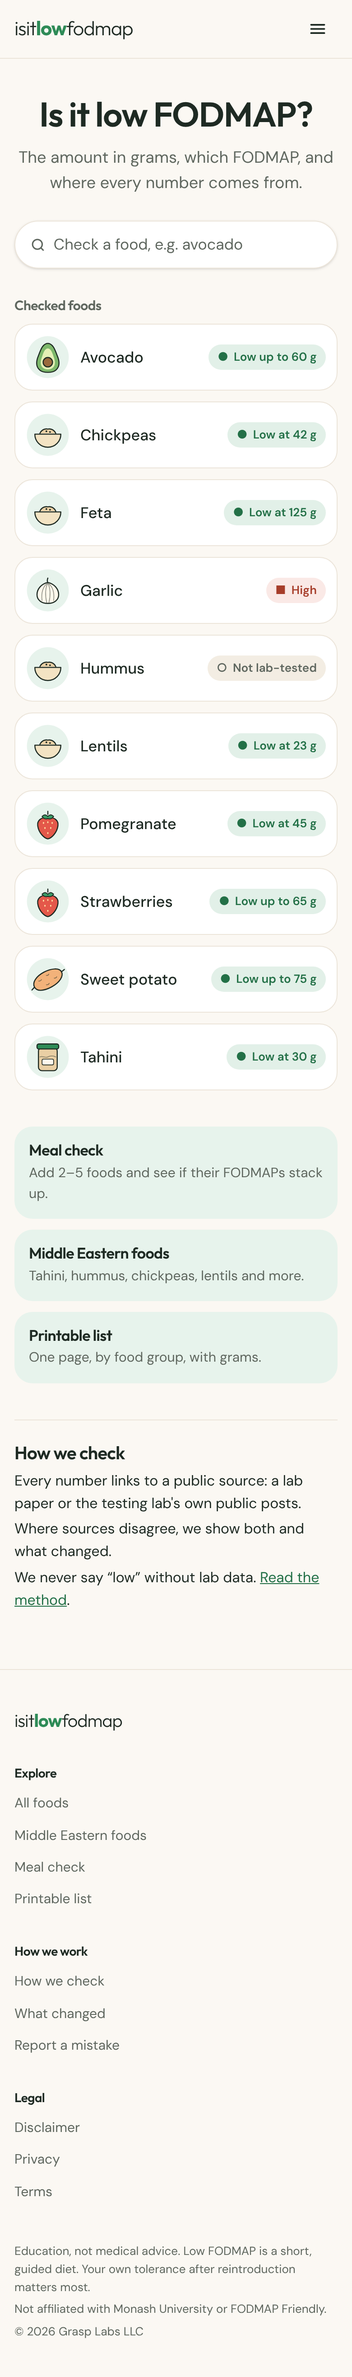
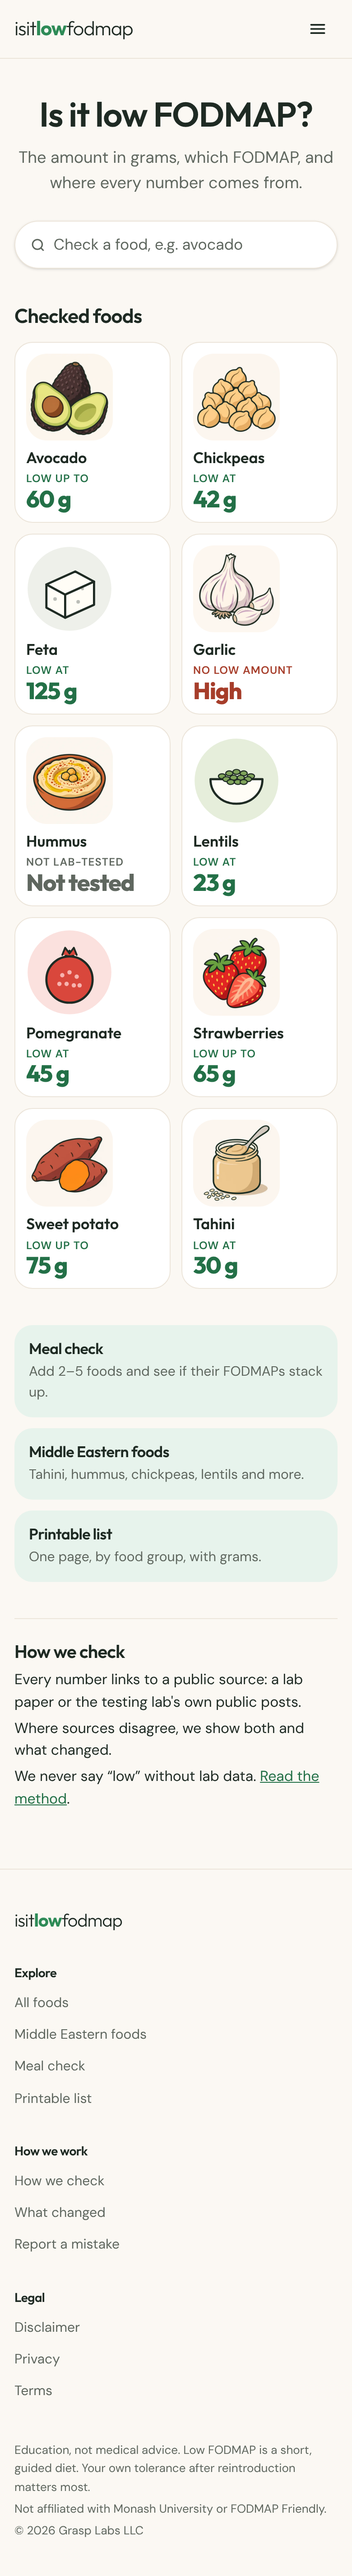
Fix 'looks mid': big-answer hero, segmented labelled scale, illustrated food set, tile grids
Claude-Session: https://claude.ai/code/session_01Q8GFjWSXATGhzzXd6CdBtz

diff --git a/src/components/FoodArt.tsx b/src/components/FoodArt.tsx
@@ -1,3 +1,8 @@
+import Image from "next/image";
+
+// Illustrated set (generated in one style, 480 px WebP in public/art). Others fall back to the simple drawings below.
+const RASTER = new Set(["garlic", "chickpeas", "sweet-potato", "avocado", "strawberries", "tahini", "hummus"]);
+
 // Original flat food drawings (no stock photos, DECISIONS §0). One simple shape set, ink outline + soft fill.
 const S = { stroke: "var(--ink)", strokeWidth: 3, strokeLinejoin: "round" as const, strokeLinecap: "round" as const };
 
@@ -7,14 +12,25 @@ const ART: Record<string, React.ReactNode> = {
   avocado: (<g><path d="M60 22c-14 0-20 18-26 34-6 14-8 30 4 40 6 5 14 6 22 6s16-1 22-6c12-10 10-26 4-40-6-16-12-34-26-34z" fill="#7DB86B" {...S} /><path d="M60 36c-9 0-13 14-17 26-4 11-4 22 4 28 4 3 8 4 13 4s9-1 13-4c8-6 8-17 4-28-4-12-8-26-17-26z" fill="#E4F0B5" stroke="none" /><circle cx="60" cy="74" r="13" fill="#9A6A3D" {...S} /></g>),
   tahini: (<g><rect x="34" y="34" width="52" height="64" rx="10" fill="#E9CFA4" {...S} /><rect x="30" y="24" width="60" height="14" rx="5" fill="#2E8B57" {...S} /><path d="M38 60c8-4 14 4 22 0s14-4 22 0" {...S} strokeWidth={2} fill="none" opacity=".5" /><rect x="44" y="66" width="32" height="16" rx="4" fill="#FFF8EC" {...S} strokeWidth={2} /></g>),
   strawberries: (<g><path d="M60 42c-20 0-30 10-28 24 3 20 18 34 28 36 10-2 25-16 28-36 2-14-8-24-28-24z" fill="#E4584A" {...S} /><path d="M44 40c6-6 10-6 16 0 6-6 10-6 16 0-4 6-10 8-16 6-6 2-12 0-16-6z" fill="#3A9B66" {...S} strokeWidth={2.5} /><path d="M60 34v-8" {...S} />{[[48,58],[60,56],[72,58],[52,72],[68,72],[60,86]].map(([x,y]) => (<ellipse key={`${x}${y}`} cx={x} cy={y} rx="1.8" ry="2.6" fill="#FFE7A8" />))}</g>),
+  chickpeas: (<g>{[[44,52],[64,46],[80,58],[50,74],[70,70],[58,90],[38,90],[82,82]].map(([x,y]) => (<g key={`${x}${y}`}><circle cx={x} cy={y} r="11" fill="#EBC98E" {...S} strokeWidth={2.5} /><path d={`M${x - 4} ${y - 5}c3 3 3 7 0 10`} {...S} strokeWidth={1.8} fill="none" opacity=".45" /></g>))}</g>),
+  feta: (<g><path d="M28 54l40-18 26 14v32L54 100 28 86z" fill="#FFFDF6" {...S} /><path d="M28 54l26 14 40-18M54 68v32" {...S} fill="none" /><circle cx="40" cy="74" r="2.5" fill="var(--ink)" opacity=".3" /><circle cx="72" cy="78" r="2.5" fill="var(--ink)" opacity=".3" /><circle cx="78" cy="60" r="2" fill="var(--ink)" opacity=".3" /></g>),
+  hummus: (<g><ellipse cx="60" cy="70" rx="40" ry="24" fill="#FFFDF6" {...S} /><ellipse cx="60" cy="66" rx="30" ry="15" fill="#EBCB95" {...S} strokeWidth={2.5} /><path d="M40 66c8-8 32-8 40 0" {...S} strokeWidth={2} fill="none" opacity=".5" /><circle cx="60" cy="64" r="6" fill="#C9A227" stroke="none" opacity=".8" />{[[52,60],[68,62],[60,70]].map(([x,y]) => (<circle key={`${x}${y}`} cx={x} cy={y} r="3" fill="#EBC98E" {...S} strokeWidth={1.5} />))}<circle cx="74" cy="70" r="1.8" fill="#C0392B" /><circle cx="46" cy="70" r="1.8" fill="#C0392B" /></g>),
+  lentils: (<g><path d="M24 58h72c0 20-16 34-36 34S24 78 24 58z" fill="#FFFDF6" {...S} />{[[40,54],[50,50],[60,48],[70,50],[80,54],[46,58],[56,56],[66,56],[76,58],[52,62],[62,62],[70,62]].map(([x,y]) => (<ellipse key={`${x}${y}`} cx={x} cy={y} rx="5" ry="3.4" fill="#7FA35A" {...S} strokeWidth={1.5} />))}</g>),
+  pomegranate: (<g><path d="M60 30l-6 8h12z" fill="#C0392B" {...S} strokeWidth={2.5} /><circle cx="60" cy="70" r="32" fill="#D9473C" {...S} /><path d="M50 36l4-10 6 8 6-8 4 10" fill="#D9473C" {...S} strokeWidth={2.5} />{[[50,64],[60,60],[70,66],[56,76],[66,78],[46,76],[74,78]].map(([x,y]) => (<circle key={`${x}${y}`} cx={x} cy={y} r="3" fill="#F7B3AE" stroke="none" />))}</g>),
   bowl: (<g><path d="M24 58h72c0 20-16 36-36 36S24 78 24 58z" fill="#F3E3C3" {...S} /><path d="M38 56c4-10 14-14 22-12 8-2 18 2 22 12" {...S} fill="#E9CFA4" /><circle cx="56" cy="50" r="2.4" fill="var(--ink)" /><circle cx="66" cy="52" r="2.4" fill="var(--ink)" /></g>),
   leaf: (<g><path d="M30 88C30 52 52 30 92 28c0 40-22 62-58 62" fill="#7DB86B" {...S} /><path d="M34 86c14-18 30-34 50-48" {...S} strokeWidth={2} fill="none" /></g>),
 };
 
-export function FoodArt({ name, size = 84, label = "" }: { name: string; size?: number; label?: string }) {
+const TINT: Record<string, string> = { garlic: "#F1ECDF", "sweet-potato": "#FBE6D2", avocado: "#E4F0D6", tahini: "#F6E7CC", strawberries: "#FBE1DE", chickpeas: "#F7EBD3", feta: "#EEF0EA", hummus: "#F6E9D2", lentils: "#E6EEDB", pomegranate: "#FBE1DE" };
+export const artTint = (name: string) => TINT[name] ?? "var(--soft)";
+
+export function FoodArt({ name, size = 84, label = "", priority = false }: { name: string; size?: number; label?: string; priority?: boolean }) {
+  if (RASTER.has(name)) {
+    return <Image src={`/art/${name}.webp`} width={size} height={size} alt={label} priority={priority} className="shrink-0 rounded-[24%] bg-[#FBF8F3]" />;
+  }
   return (
     <svg viewBox="0 0 120 120" width={size} height={size} role={label ? "img" : undefined} aria-label={label || undefined} aria-hidden={label ? undefined : true}>
-      <circle cx="60" cy="60" r="58" fill="var(--soft)" />
+      <circle cx="60" cy="60" r="58" fill={artTint(name)} />
       {ART[name] ?? ART.bowl}
     </svg>
   );

diff --git a/src/components/PortionSlider.tsx b/src/components/PortionSlider.tsx
@@ -6,7 +6,10 @@ import { bands, zoneFor } from "@/lib/fodmap";
 import { ZONE_STYLE } from "./ZoneChip";
 import { messages as m } from "@/lib/i18n";
 
-// The signature diagram. Server-rendered with the start amount, so the HTML already carries the answer.
+const SHORT = { low: "Low", moderate: "Mod", high: "High", untested: "Untested" } as const;
+
+// The signature scale (DECISIONS 2026-11-19, option A): thick segments with labels, based on BitePal/Oura.
+// Server-rendered at the start amount, so the HTML already carries the answer.
 export function PortionSlider({ serving, start }: { serving: Serving; start?: number }) {
   const id = useId();
   const first = start ?? serving.lowMaxG ?? serving.highFromG ?? Math.round(serving.scaleMaxG / 2);
@@ -15,27 +18,34 @@ export function PortionSlider({ serving, start }: { serving: Serving; start?: nu
   const pct = (g / serving.scaleMaxG) * 100;
   const step = serving.scaleMaxG <= 20 ? 0.5 : serving.scaleMaxG <= 60 ? 1 : 5;
   const groups = serving.groups.map((x) => GROUP_LABEL[x]).join(" + ");
+  const segs = bands(serving);
+  const ticks = [0, serving.lowMaxG ?? serving.highFromG, serving.scaleMaxG]
+    .filter((t): t is number => t !== null && t <= serving.scaleMaxG)
+    .filter((t, i, a) => a.indexOf(t) === i)
+    .filter((t, i, a) => i === 0 || (t - a[i - 1]) / serving.scaleMaxG >= 0.09 || t === serving.scaleMaxG);
   return (
     <div>
       <div className="flex items-baseline justify-between gap-3">
-        <label htmlFor={id} className="text-sm font-semibold">{m.food.slider}: <span className="tabular-nums">{g} g</span></label>
-        <span role="status" aria-live="polite" className="text-sm">
-          <span aria-hidden className="mr-1">{ZONE_STYLE[z].shape}</span>
-          <b>{m.zone[z]}</b>{z !== "untested" && z !== "low" && groups ? ` in ${groups.toLowerCase()}` : ""}
+        <label htmlFor={id} className="text-[15px] font-semibold">{m.food.slider}: <span className="tabular-nums">{g} g</span></label>
+        <span role="status" aria-live="polite" className={`rounded-full px-2.5 py-0.5 text-[14px] font-semibold ${ZONE_STYLE[z].cls}`}>
+          <span aria-hidden className="mr-1">{ZONE_STYLE[z].shape}</span>{m.zone[z]}{z !== "untested" && z !== "low" && groups ? ` in ${groups.toLowerCase()}` : ""}
         </span>
       </div>
-      <div className="relative mt-3 h-4">
-        <div className="absolute inset-0 flex overflow-hidden rounded-full" aria-hidden>
-          {bands(serving).map((b) => (<div key={b.zone + b.from} className={ZONE_STYLE[b.zone].bar} style={{ width: `${(b.to - b.from) * 100}%` }} />))}
+      <div className="relative mt-4 h-5">
+        <div className="absolute inset-0 flex gap-1" aria-hidden>
+          {segs.map((b, i) => (<div key={b.zone + b.from} className={`${ZONE_STYLE[b.zone].bar} ${i === 0 ? "rounded-l-full" : "rounded-l-[4px]"} ${i === segs.length - 1 ? "rounded-r-full" : "rounded-r-[4px]"}`} style={{ flexGrow: b.to - b.from, flexBasis: 0 }} />))}
         </div>
-        <div aria-hidden className="pointer-events-none absolute top-1/2 h-7 w-7 -translate-x-1/2 -translate-y-1/2 rounded-full border-[3px] border-ink bg-card shadow" style={{ left: `${pct}%` }} />
+        <div aria-hidden className="pointer-events-none absolute top-1/2 h-8 w-8 -translate-x-1/2 -translate-y-1/2 rounded-full border-[3px] border-ink bg-card shadow-md" style={{ left: `${pct}%` }} />
         <input id={id} type="range" min={0} max={serving.scaleMaxG} step={step} value={g} onChange={(e) => setG(Number(e.target.value))}
           aria-valuetext={`${g} grams: ${m.zone[z]}`} className="absolute inset-0 h-full w-full cursor-pointer opacity-0" />
       </div>
-      <div className="mt-2 flex justify-between text-[12.5px] text-muted tabular-nums" aria-hidden>
-        <span>0 g</span>{serving.lowMaxG !== null && <span>{serving.lowMaxG} g</span>}<span>{serving.scaleMaxG} g</span>
+      <div className="mt-2 flex gap-1 text-[12.5px] font-semibold" aria-hidden>
+        {segs.map((b) => (<span key={b.zone + b.from} className={`truncate ${b.zone === "low" ? "text-brand-ink" : b.zone === "moderate" ? "text-mid-ink" : b.zone === "high" ? "text-high-ink" : "text-muted"}`} style={{ flexGrow: b.to - b.from, flexBasis: 0 }}>
+          {b.to - b.from >= (b.zone === "untested" ? 0.24 : 0.12) ? `${ZONE_STYLE[b.zone].shape} ${SHORT[b.zone]}` : ""}</span>))}
       </div>
-      <p className="mt-1 text-[12.5px] text-muted">{m.food.sliderHelp}</p>
+      <div className="relative mt-1 h-4 text-[12px] text-muted tabular-nums" aria-hidden>
+        {ticks.map((t, i) => (<span key={t} className="absolute whitespace-nowrap" style={{ left: `${(t / serving.scaleMaxG) * 100}%`, transform: i === 0 ? "none" : i === ticks.length - 1 ? "translateX(-100%)" : "translateX(-50%)" }}>{t} g</span>))}
+      </div>
     </div>
   );
 }

diff --git a/src/app/food/[slug]/page.tsx b/src/app/food/[slug]/page.tsx
@@ -5,7 +5,7 @@ import { citedSources, foods, getFood, related, sameGroup } from "@/data";
 import { GROUP_LABEL } from "@/data/schema";
 import { FoodArt } from "@/components/FoodArt";
 import { PortionSlider } from "@/components/PortionSlider";
-import { ZoneChip } from "@/components/ZoneChip";
+import { BigAnswer } from "@/components/BigAnswer";
 import { DoctorBox } from "@/components/DoctorBox";
 import { Row } from "@/components/Row";
 import { fmt, messages as m } from "@/lib/i18n";
@@ -28,7 +28,6 @@ export async function generateMetadata({ params }: { params: Promise<{ slug: str
 export default async function FoodPage({ params }: { params: Promise<{ slug: string }> }) {
   const food = getFood((await params).slug);
   if (!food) notFound();
-  const h = headline(food);
   const main = food.servings[0];
   const cited = citedSources(food);
   const n = (id: string) => cited.findIndex((s) => s.id === id) + 1;
@@ -44,20 +43,21 @@ export default async function FoodPage({ params }: { params: Promise<{ slug: str
         { "@type": "Article", headline: title, description: food.answer, datePublished: food.published, dateModified: food.checked, author: { "@id": ORG_ID }, publisher: { "@id": ORG_ID }, mainEntityOfPage: abs(`/food/${food.slug}`),
           about: { "@type": "Thing", name: food.name }, citation: cited.map((s) => ({ "@type": "CreativeWork", name: s.title, url: s.url, publisher: s.publisher })) },
       ]} />
-      <nav aria-label="Breadcrumb" className="text-[13px] text-muted"><Link href="/foods" className="hover:text-ink">Foods</Link> › {CATEGORY_LABEL[food.category]}</nav>
-
-      <div className="mt-3 flex items-center gap-4">
-        <FoodArt name={food.illustration} size={88} />
-        <h1 className="text-[32px] font-semibold sm:text-[40px]">{title}</h1>
+      <div className="flex items-start justify-between gap-4">
+        <div>
+          <nav aria-label="Breadcrumb" className="text-[13px] text-muted"><Link href="/foods" className="hover:text-ink">Foods</Link> › {CATEGORY_LABEL[food.category]}</nav>
+          <h1 className="mt-2 text-[30px] font-semibold sm:text-[42px]">{title}</h1>
+        </div>
+        <FoodArt name={food.illustration} size={104} priority />
       </div>
 
-      <section aria-label="Answer" className="mt-5 rounded-[var(--radius-card)] border border-line bg-card p-5">
-        <div className="flex flex-wrap items-center gap-2"><ZoneChip zone={h.zone} label={h.chip} /><span className="text-sm text-muted">{main.form}</span></div>
-        <p className="mt-3 text-[18px] leading-relaxed">{food.answer}{cite(main.sourceIds)}</p>
+      <section aria-label="Answer" className="mt-5 rounded-[var(--radius-card)] border border-line bg-card p-5 sm:p-6">
+        <BigAnswer food={food} />
+        <p className="mt-3 text-[17px] leading-relaxed">{food.answer}{cite(main.sourceIds)}</p>
         <div className="mt-5"><PortionSlider serving={main} /></div>
-        <ul className="mt-4 flex flex-wrap gap-2 text-[13px]">
+        <ul className="mt-5 flex flex-wrap gap-2 text-[13px]">
           {food.groups.map((g) => (<li key={g} className="rounded-full bg-chip px-2.5 py-1">{GROUP_LABEL[g]}</li>))}
-          <li className="rounded-full bg-chip px-2.5 py-1">{m.tier[food.tier]}</li>
+          <li className="rounded-full bg-chip px-2.5 py-1">{m.tier[food.tier]} · {main.form}</li>
           <li className="rounded-full bg-chip px-2.5 py-1">{fmt(m.food.checked, { date: fmtDate(food.checked) })}</li>
         </ul>
       </section>

diff --git a/src/app/page.tsx b/src/app/page.tsx
@@ -1,27 +1,23 @@
 import Link from "next/link";
 import { foods } from "@/data";
 import { FoodSearch } from "@/components/FoodSearch";
-import { FoodArt } from "@/components/FoodArt";
-import { ZoneChip } from "@/components/ZoneChip";
+import { FoodTile } from "@/components/FoodTile";
 import { checkerIndex } from "@/lib/index-data";
-import { headline } from "@/lib/verdict";
 import { JsonLd } from "@/lib/jsonld";
 
 export default function Home() {
   const items = checkerIndex();
   return (
-    <div className="mx-auto max-w-3xl px-4 pt-10">
+    <div className="mx-auto max-w-5xl px-4 pt-10">
       <JsonLd graph={[]} />
       <h1 className="text-center text-[38px] font-semibold sm:text-[52px]">Is it low FODMAP?</h1>
       <p className="mx-auto mt-3 max-w-xl text-center text-[18px] text-muted">The amount in grams, which FODMAP, and where every number comes from.</p>
-      <div className="mt-7"><FoodSearch items={items} /></div>
+      <div className="mx-auto mt-7 max-w-2xl"><FoodSearch items={items} /></div>
 
-      <section className="mt-8" aria-labelledby="popular">
-        <h2 id="popular" className="text-[15px] font-semibold text-muted">Checked foods</h2>
-        <ul className="mt-3 grid grid-cols-1 gap-3 sm:grid-cols-2">
-          {foods.map((f) => { const h = headline(f); return (
-            <li key={f.slug}><Link href={`/food/${f.slug}`} className="flex items-center gap-3 rounded-[var(--radius-card)] border border-line bg-card p-3 hover:border-brand">
-              <FoodArt name={f.illustration} size={48} /><span className="flex-1 font-medium">{f.name[0].toUpperCase() + f.name.slice(1)}</span><ZoneChip zone={h.zone} label={h.chip} /></Link></li>); })}
+      <section className="mt-10" aria-labelledby="popular">
+        <h2 id="popular" className="text-[22px] font-semibold">Checked foods</h2>
+        <ul className="mt-4 grid grid-cols-2 gap-3 sm:grid-cols-3 lg:grid-cols-5">
+          {foods.map((f) => (<li key={f.slug}><FoodTile food={f} /></li>))}
         </ul>
       </section>
 
@@ -36,7 +32,7 @@ export default function Home() {
         ))}
       </section>
 
-      <section className="mt-10 border-t border-line pt-6" aria-labelledby="how">
+      <section className="mx-auto mt-10 max-w-3xl border-t border-line pt-6" aria-labelledby="how">
         <h2 id="how" className="text-[20px] font-semibold">How we check</h2>
         <ul className="mt-2 space-y-1 text-[16px]">
           <li>Every number links to a public source: a lab paper or the testing lab&apos;s own public posts.</li>

diff --git a/src/app/region/[slug]/page.tsx b/src/app/region/[slug]/page.tsx
@@ -1,12 +1,9 @@
 import type { Metadata } from "next";
-import Link from "next/link";
 import { notFound } from "next/navigation";
 import { foods } from "@/data";
 import { REGIONS, getRegion } from "@/data/regions";
-import { FoodArt } from "@/components/FoodArt";
-import { ZoneChip } from "@/components/ZoneChip";
+import { FoodTile } from "@/components/FoodTile";
 import { Row } from "@/components/Row";
-import { headline, subline } from "@/lib/verdict";
 import { JsonLd, breadcrumbs } from "@/lib/jsonld";
 
 export const dynamicParams = false;
@@ -22,14 +19,12 @@ export default async function RegionPage({ params }: { params: Promise<{ slug: s
   if (!r) notFound();
   const list = foods.filter((f) => f.regions.includes(r.slug as never));
   return (
-    <div className="mx-auto max-w-3xl px-4 pt-8">
+    <div className="mx-auto max-w-4xl px-4 pt-8">
       <JsonLd graph={[breadcrumbs([{ name: "Regions", path: `/region/${r.slug}` }, { name: r.name, path: `/region/${r.slug}` }])]} />
       <h1 className="text-[34px] font-semibold">{r.title}</h1>
       <p className="mt-3 text-[17px] text-muted">{r.intro}</p>
-      <ul className="mt-6 grid gap-3 sm:grid-cols-2">
-        {list.map((f) => { const h = headline(f); return (
-          <li key={f.slug}><Link href={`/food/${f.slug}`} className="flex items-center gap-3 rounded-[var(--radius-card)] border border-line bg-card p-3 hover:border-brand">
-            <FoodArt name={f.illustration} size={52} /><span className="flex-1"><span className="block font-medium">{f.name[0].toUpperCase() + f.name.slice(1)}</span><span className="text-[13px] text-muted">{subline(f)}</span></span><ZoneChip zone={h.zone} label={h.chip} /></Link></li>); })}
+      <ul className="mt-6 grid grid-cols-2 gap-3 sm:grid-cols-3">
+        {list.map((f) => (<li key={f.slug}><FoodTile food={f} /></li>))}
       </ul>
       <div className="mt-8">
         <Row title="Eating out: what to ask">

diff --git a/src/components/FoodTile.tsx b/src/components/FoodTile.tsx
@@ -1,0 +1,21 @@
+import Link from "next/link";
+import type { Food } from "@/data/schema";
+import { verdict } from "@/lib/fodmap";
+import { FoodArt } from "./FoodArt";
+
+// One food as a tile: picture, name and the answer in grams (same system as the food page hero).
+export function FoodTile({ food }: { food: Food }) {
+  const s = food.servings[0];
+  const v = verdict(food);
+  const big = v === "depends" || v === "low" ? `${s.lowMaxG} g` : v === "high" ? "High" : "Not tested";
+  const small = v === "depends" ? "low up to" : v === "low" ? "low at" : v === "high" ? "no low amount" : "not lab-tested";
+  const color = v === "high" ? "text-high-ink" : v === "estimate" || v === "unknown" ? "text-muted" : "text-brand-ink";
+  return (
+    <Link href={`/food/${food.slug}`} className="group flex flex-col rounded-[var(--radius-card)] border border-line bg-card p-3 transition-colors hover:border-brand sm:p-4">
+      <FoodArt name={food.illustration} size={96} label="" />
+      <span className="mt-2 font-display text-[17px] font-semibold leading-tight">{food.name[0].toUpperCase() + food.name.slice(1)}</span>
+      <span className={`mt-1 text-[12px] font-semibold uppercase tracking-[0.05em] ${color}`}>{small}</span>
+      <span className={`font-display text-[26px] font-extrabold leading-none tracking-[-0.03em] ${color}`}>{big}</span>
+    </Link>
+  );
+}

diff --git a/src/components/BigAnswer.tsx b/src/components/BigAnswer.tsx
@@ -1,0 +1,24 @@
+import type { Food } from "@/data/schema";
+import { verdict } from "@/lib/fodmap";
+
+// The hero answer (option A, based on BitePal/Oura): the grams are the biggest thing on the page.
+export function BigAnswer({ food }: { food: Food }) {
+  const s = food.servings[0];
+  const v = verdict(food);
+  const label =
+    v === "depends" ? { t: "● Low up to", c: "text-brand-ink" } :
+    v === "low" ? { t: "● Low at", c: "text-brand-ink" } :
+    v === "high" ? { t: "■ No low amount found", c: "text-high-ink" } :
+    { t: "○ Not lab-tested", c: "text-muted" };
+  const big = v === "depends" || v === "low" ? `${s.lowMaxG} g` : v === "high" ? "High" : "Not tested";
+  const side = v === "depends" || v === "low" ? s.household : v === "high" && s.highFromG ? `even at ${s.highFromG} g` : undefined;
+  return (
+    <div>
+      <p className={`text-[13px] font-bold uppercase tracking-[0.06em] ${label.c}`}>{label.t}</p>
+      <p className="mt-1 flex flex-wrap items-baseline gap-x-3">
+        <span className={`font-display font-extrabold leading-none tracking-[-0.04em] ${big.length > 6 ? "text-[44px]" : "text-[64px]"}`}>{big}</span>
+        {side && <span className="text-[17px] text-muted">{side}</span>}
+      </p>
+    </div>
+  );
+}

diff --git a/src/data/foods/chickpeas.ts b/src/data/foods/chickpeas.ts
@@ -1,7 +1,7 @@
 import type { FoodInput } from "../schema";
 
 const food: FoodInput = {
-  slug: "chickpeas", name: "chickpeas", aliases: ["chickpea", "garbanzo beans", "chick peas", "canned chickpeas"], category: "legumes", regions: ["middle-eastern", "south-asian", "mediterranean"], illustration: "bowl",
+  slug: "chickpeas", name: "chickpeas", aliases: ["chickpea", "garbanzo beans", "chick peas", "canned chickpeas"], category: "legumes", regions: ["middle-eastern", "south-asian", "mediterranean"], illustration: "chickpeas",
   tier: "lab-tested",
   answer: "Canned chickpeas are, in a small serve. Monash and FODMAP Friendly both list a quarter cup (42 g), drained and rinsed, as low. Chickpeas cooked from dry are far higher in GOS.",
   groups: ["gos"],

diff --git a/src/data/foods/lentils.ts b/src/data/foods/lentils.ts
@@ -1,7 +1,7 @@
 import type { FoodInput } from "../schema";
 
 const food: FoodInput = {
-  slug: "lentils", name: "lentils", aliases: ["lentil", "green lentils", "red lentils", "canned lentils"], category: "legumes", regions: ["middle-eastern", "south-asian", "mediterranean"], illustration: "bowl",
+  slug: "lentils", name: "lentils", aliases: ["lentil", "green lentils", "red lentils", "canned lentils"], category: "legumes", regions: ["middle-eastern", "south-asian", "mediterranean"], illustration: "lentils",
   tier: "lab-tested",
   answer: "In small amounts. Boiled green lentils are low at a quarter cup (23 g) in Monash's fibre guide. Canned lentils, drained and rinsed, allow a bit more, because GOS wash out into the can liquid.",
   groups: ["gos"],

diff --git a/src/data/foods/hummus.ts b/src/data/foods/hummus.ts
@@ -1,7 +1,7 @@
 import type { FoodInput } from "../schema";
 
 const food: FoodInput = {
-  slug: "hummus", name: "hummus", aliases: ["houmous", "hommus", "humus"], category: "condiments", regions: ["middle-eastern", "mediterranean"], illustration: "bowl",
+  slug: "hummus", name: "hummus", aliases: ["houmous", "hommus", "humus"], category: "condiments", regions: ["middle-eastern", "mediterranean"], illustration: "hummus",
   tier: "estimated",
   answer: "Usually not when store-bought: most hummus combines chickpeas with garlic, and Monash says shop hummus is usually not FODMAP friendly. No lab has published a tested serve. Homemade with rinsed canned chickpeas and garlic-infused oil is the lower-FODMAP route.",
   groups: ["gos", "fructans"],

diff --git a/src/data/foods/pomegranate.ts b/src/data/foods/pomegranate.ts
@@ -1,7 +1,7 @@
 import type { FoodInput } from "../schema";
 
 const food: FoodInput = {
-  slug: "pomegranate", name: "pomegranate", aliases: ["pomegranate seeds", "pomegranate arils"], category: "fruit", regions: ["middle-eastern", "south-asian"], illustration: "strawberries",
+  slug: "pomegranate", name: "pomegranate", aliases: ["pomegranate seeds", "pomegranate arils"], category: "fruit", regions: ["middle-eastern", "south-asian"], illustration: "pomegranate",
   tier: "lab-tested",
   answer: "Yes, as a topping. A quarter cup of pomegranate seeds (45 g) is low in Monash's published fibre guide. The FODMAP that limits it is reported as fructans.",
   groups: ["fructans"],

diff --git a/src/data/foods/feta.ts b/src/data/foods/feta.ts
@@ -1,7 +1,7 @@
 import type { FoodInput } from "../schema";
 
 const food: FoodInput = {
-  slug: "feta", name: "feta", aliases: ["feta cheese"], category: "dairy", regions: ["middle-eastern", "mediterranean"], illustration: "bowl",
+  slug: "feta", name: "feta", aliases: ["feta cheese"], category: "dairy", regions: ["middle-eastern", "mediterranean"], illustration: "feta",
   tier: "lab-tested",
   answer: "Yes. Feta has almost no lactose: Monash measured just 0.13 g of lactose in a 125 g serve and rates it low. Like other ripened cheeses, most of the lactose is gone by the time it's eaten.",
   groups: ["lactose"],
